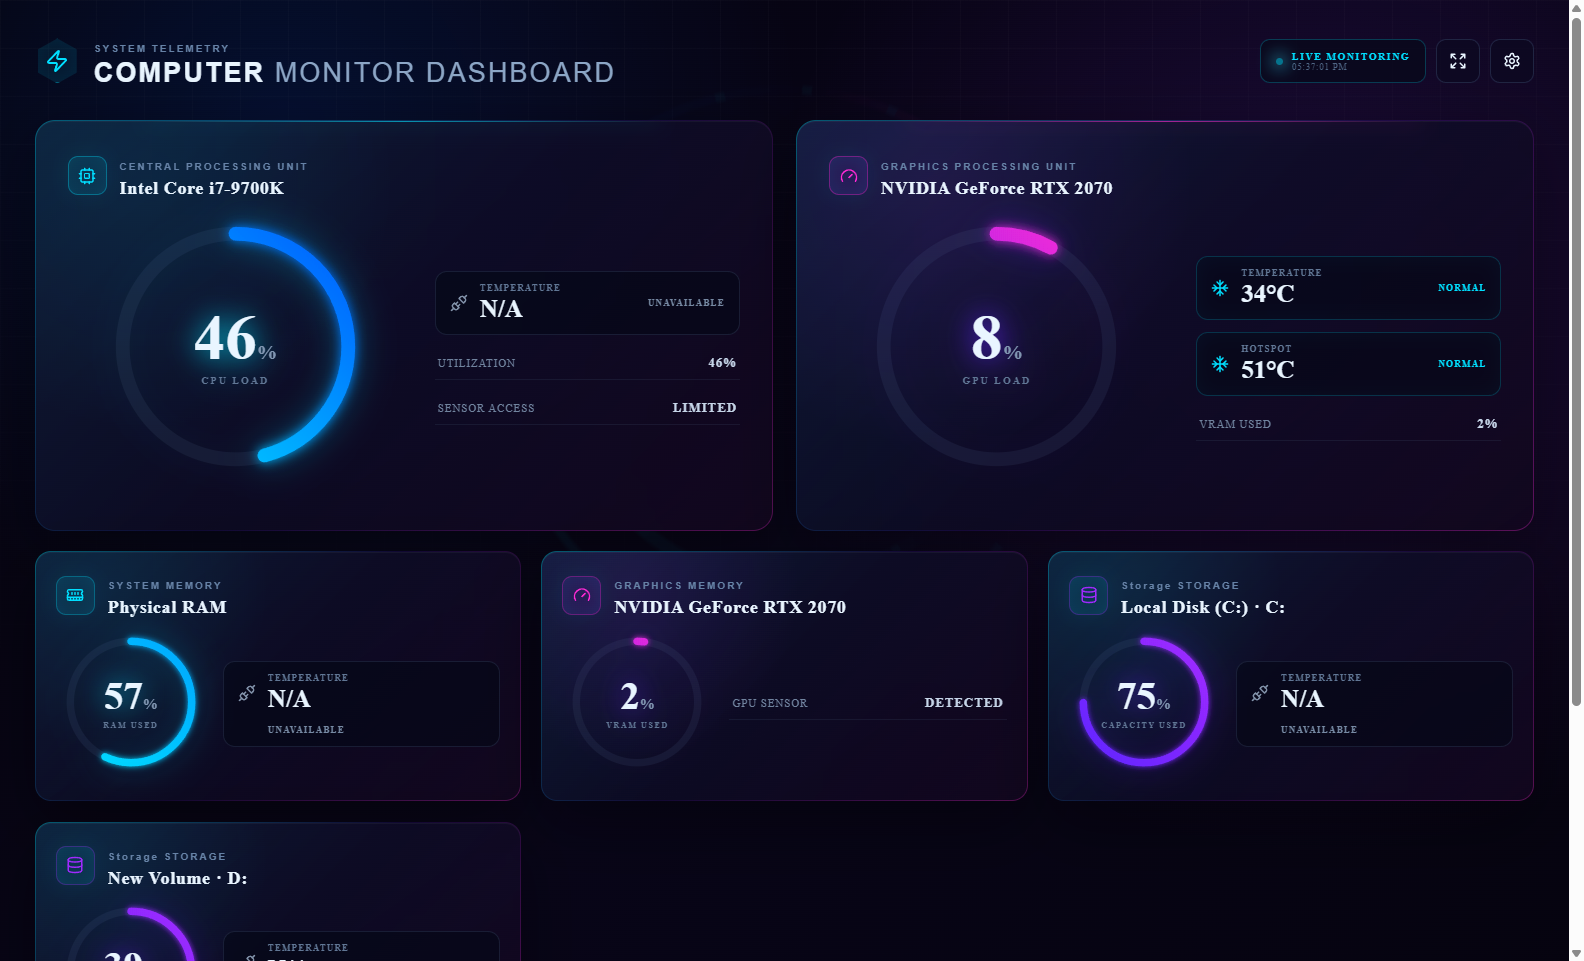
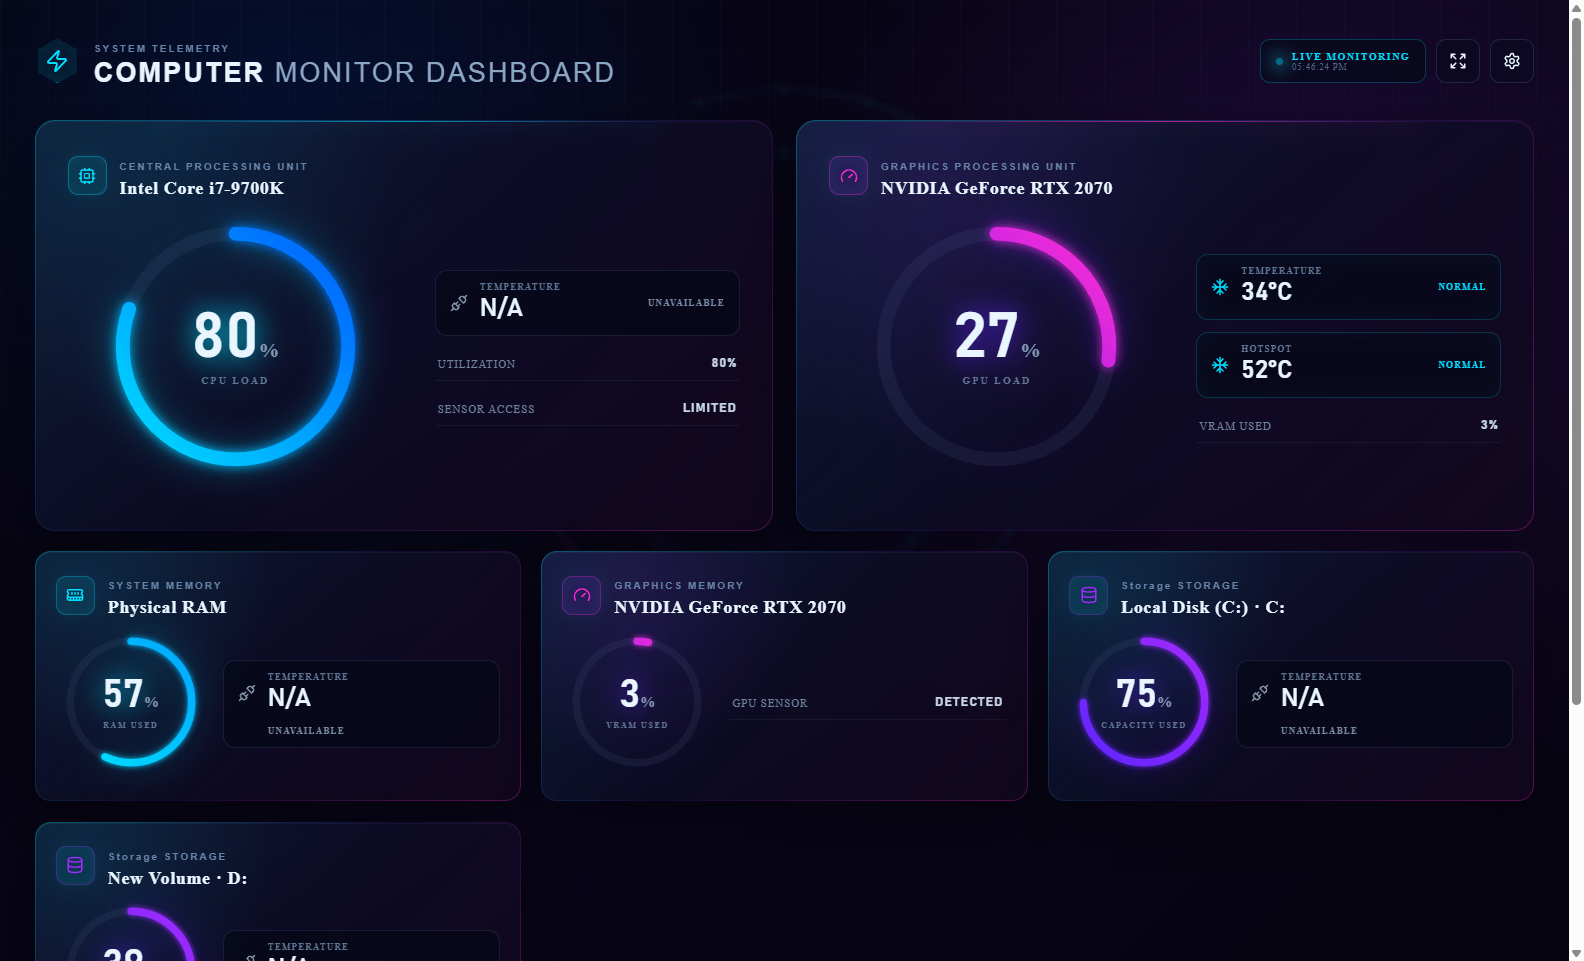
Add Windows tray and startup controls

diff --git a/desktop/electron/main.ts b/desktop/electron/main.ts
@@ -1,4 +1,4 @@
-import { app, BrowserWindow, ipcMain, shell } from 'electron'
+import { app, BrowserWindow, ipcMain, Menu, nativeImage, shell, Tray } from 'electron'
 import { ChildProcessWithoutNullStreams, spawn } from 'node:child_process'
 import { randomBytes } from 'node:crypto'
 import { existsSync } from 'node:fs'
@@ -7,9 +7,45 @@ import path from 'node:path'
 
 let mainWindow: BrowserWindow | null = null
 let monitor: ChildProcessWithoutNullStreams | null = null
+let tray: Tray | null = null
 let endpoint: string | null = null
 let screenshotCaptured = false
+let minimizeToTray = false
 const sessionToken = randomBytes(32).toString('hex')
+
+app.setAppUserModelId('app.computermonitor.dashboard')
+
+function showDashboard() {
+  if (!mainWindow) return
+  if (mainWindow.isMinimized()) mainWindow.restore()
+  mainWindow.show()
+  mainWindow.focus()
+}
+
+function setTrayEnabled(enabled: boolean) {
+  if (!enabled) {
+    tray?.destroy()
+    tray = null
+    minimizeToTray = false
+    return false
+  }
+  if (tray) return true
+  const packagedIcon = path.join(__dirname, '../dist/app-icon.png')
+  const developmentIcon = path.resolve(__dirname, '../public/app-icon.png')
+  const icon = nativeImage.createFromPath(app.isPackaged ? packagedIcon : developmentIcon)
+  tray = new Tray(icon.resize({ width: 20, height: 20 }))
+  tray.setToolTip('Computer Monitor Dashboard')
+  tray.setContextMenu(Menu.buildFromTemplate([
+    { label: 'Open Dashboard', click: showDashboard },
+    { type: 'separator' },
+    {
+      label: 'Exit',
+      click: () => app.quit(),
+    },
+  ]))
+  tray.on('double-click', showDashboard)
+  return true
+}
 
 function captureDashboardIfRequested() {
   const target = process.env.DASHBOARD_SCREENSHOT_PATH
@@ -82,6 +118,10 @@ function createWindow() {
   })
 
   mainWindow.once('ready-to-show', () => mainWindow?.show())
+  mainWindow.on('minimize', () => {
+    if (!minimizeToTray) return
+    mainWindow?.hide()
+  })
   mainWindow.webContents.setWindowOpenHandler(({ url }) => {
     if (url.startsWith('https://')) void shell.openExternal(url)
     return { action: 'deny' }
@@ -109,13 +149,30 @@ ipcMain.handle('window:setFullscreen', (_event, enabled: boolean) => {
   mainWindow?.setFullScreen(enabled)
   return mainWindow?.isFullScreen() ?? false
 })
+ipcMain.handle('desktop:setTrayEnabled', (_event, enabled: boolean) => setTrayEnabled(enabled))
+ipcMain.handle('desktop:setMinimizeToTray', (_event, enabled: boolean) => {
+  minimizeToTray = enabled && Boolean(tray)
+  return minimizeToTray
+})
+ipcMain.handle('desktop:setLaunchAtStartup', (_event, enabled: boolean) => {
+  if (!app.isPackaged) return false
+  app.setLoginItemSettings({ openAtLogin: enabled, path: process.execPath })
+  return app.getLoginItemSettings().openAtLogin
+})
+ipcMain.handle('desktop:getPreferences', () => ({
+  launchAtStartup: app.isPackaged && app.getLoginItemSettings().openAtLogin,
+  trayEnabled: Boolean(tray),
+  minimizeToTray,
+}))
 
 app.whenReady().then(() => {
   startMonitor()
   createWindow()
+  setTrayEnabled(true)
 })
 
 app.on('window-all-closed', () => app.quit())
 app.on('before-quit', () => {
   if (monitor && !monitor.killed) monitor.kill()
+  tray?.destroy()
 })

diff --git a/desktop/src/App.tsx b/desktop/src/App.tsx
@@ -11,6 +11,9 @@ const defaultSettings: AppSettings = {
   rgbIntensity: 75,
   reducedMotion: false,
   fullscreen: false,
+  showTrayIcon: true,
+  minimizeToTray: false,
+  launchAtStartup: false,
   thresholds: {
     cpu: { warm: 75, hot: 90 },
     gpu: { warm: 75, hot: 88 },
@@ -41,19 +44,25 @@ export default function App() {
 
   useEffect(() => {
     void window.computerMonitor?.setFullscreen(settings.fullscreen)
+    void window.computerMonitor?.setTrayEnabled(settings.showTrayIcon)
+      .then(() => window.computerMonitor?.setMinimizeToTray(settings.minimizeToTray))
   // Apply startup preference once; later changes are applied when saved.
   // eslint-disable-next-line react-hooks/exhaustive-deps
   }, [])
 
   const saveSettings = async (next: AppSettings) => {
-    const validated = {
+    const validated: AppSettings = {
       ...next,
       refreshIntervalMs: Math.max(500, Math.min(10000, next.refreshIntervalMs)),
+      minimizeToTray: next.showTrayIcon && next.minimizeToTray,
     }
     setSettings(validated)
     localStorage.setItem('computer-monitor-settings', JSON.stringify(validated))
     document.documentElement.classList.toggle('reduced-motion', validated.reducedMotion)
     await window.computerMonitor?.setFullscreen(validated.fullscreen)
+    await window.computerMonitor?.setTrayEnabled(validated.showTrayIcon)
+    await window.computerMonitor?.setMinimizeToTray(validated.minimizeToTray)
+    await window.computerMonitor?.setLaunchAtStartup(validated.launchAtStartup)
     if (connection) {
       try {
         await fetch(`${connection.endpoint}/api/settings`, {

diff --git a/desktop/src/components/SettingsPanel.tsx b/desktop/src/components/SettingsPanel.tsx
@@ -63,6 +63,21 @@ export function SettingsPanel({ value, onSave, onClose }: SettingsPanelProps) {
           <input type="checkbox" checked={draft.fullscreen}
             onChange={e => setDraft({ ...draft, fullscreen: e.target.checked })} />
         </label>
+        <label className="setting-row">
+          <span><strong>System tray icon</strong><small>Open or exit the dashboard from the tray</small></span>
+          <input type="checkbox" checked={draft.showTrayIcon}
+            onChange={e => setDraft({ ...draft, showTrayIcon: e.target.checked, minimizeToTray: e.target.checked ? draft.minimizeToTray : false })} />
+        </label>
+        <label className="setting-row">
+          <span><strong>Minimize to tray</strong><small>Hide the window instead of minimizing it</small></span>
+          <input type="checkbox" checked={draft.minimizeToTray} disabled={!draft.showTrayIcon}
+            onChange={e => setDraft({ ...draft, minimizeToTray: e.target.checked })} />
+        </label>
+        <label className="setting-row">
+          <span><strong>Launch with Windows</strong><small>Start automatically after you sign in</small></span>
+          <input type="checkbox" checked={draft.launchAtStartup}
+            onChange={e => setDraft({ ...draft, launchAtStartup: e.target.checked })} />
+        </label>
 
         <div className="thresholds">
           <h3>Thermal warning thresholds</h3>

diff --git a/desktop/src/types.ts b/desktop/src/types.ts
@@ -50,6 +50,9 @@ export interface AppSettings {
   rgbIntensity: number
   reducedMotion: boolean
   fullscreen: boolean
+  showTrayIcon: boolean
+  minimizeToTray: boolean
+  launchAtStartup: boolean
   thresholds: Record<string, Threshold>
 }
 
@@ -64,6 +67,14 @@ declare global {
       getMonitorConnection(): Promise<MonitorConnection | null>
       toggleFullscreen(): Promise<boolean>
       setFullscreen(enabled: boolean): Promise<boolean>
+      setTrayEnabled(enabled: boolean): Promise<boolean>
+      setMinimizeToTray(enabled: boolean): Promise<boolean>
+      setLaunchAtStartup(enabled: boolean): Promise<boolean>
+      getDesktopPreferences(): Promise<{
+        launchAtStartup: boolean
+        trayEnabled: boolean
+        minimizeToTray: boolean
+      }>
       onMonitorChanged(callback: () => void): () => void
     }
   }

diff --git a/desktop/electron/preload.ts b/desktop/electron/preload.ts
@@ -4,6 +4,10 @@ contextBridge.exposeInMainWorld('computerMonitor', {
   getMonitorConnection: () => ipcRenderer.invoke('monitor:connection'),
   toggleFullscreen: () => ipcRenderer.invoke('window:toggleFullscreen'),
   setFullscreen: (enabled: boolean) => ipcRenderer.invoke('window:setFullscreen', enabled),
+  setTrayEnabled: (enabled: boolean) => ipcRenderer.invoke('desktop:setTrayEnabled', enabled),
+  setMinimizeToTray: (enabled: boolean) => ipcRenderer.invoke('desktop:setMinimizeToTray', enabled),
+  setLaunchAtStartup: (enabled: boolean) => ipcRenderer.invoke('desktop:setLaunchAtStartup', enabled),
+  getDesktopPreferences: () => ipcRenderer.invoke('desktop:getPreferences'),
   onMonitorChanged: (callback: () => void) => {
     const handler = () => callback()
     ipcRenderer.on('monitor-ready', handler)

diff --git a/README.md b/README.md
@@ -16,6 +16,8 @@ real sensor readings—never generated or estimated values.
 - Separate normal, warm, hot, and unavailable thermal states
 - Configurable refresh interval, thresholds, RGB intensity, and reduced motion
 - Fullscreen command-center mode
+- Optional system tray controls and minimize-to-tray behavior
+- Optional launch with Windows, disabled by default
 - Local-only monitoring with no accounts, analytics, advertisements, or cloud
 
 Unsupported sensor values are displayed as `N/A`. Storage percentages represent
@@ -27,6 +29,10 @@ occupied capacity, not disk activity or transfer speed.
 2. Download `Computer-Monitor-Dashboard-Setup.exe`.
 3. Run the installer and choose an installation directory.
 4. Launch **Computer Monitor Dashboard** from the Start menu or desktop.
+
+The installer creates Start menu and desktop shortcuts. The installed
+application uses a stable Windows identity and can be pinned normally to the
+taskbar.
 
 End users do not need Cursor, Node.js, Python, .NET, or any development tools.
 The installer includes the Electron desktop runtime and a self-contained .NET
